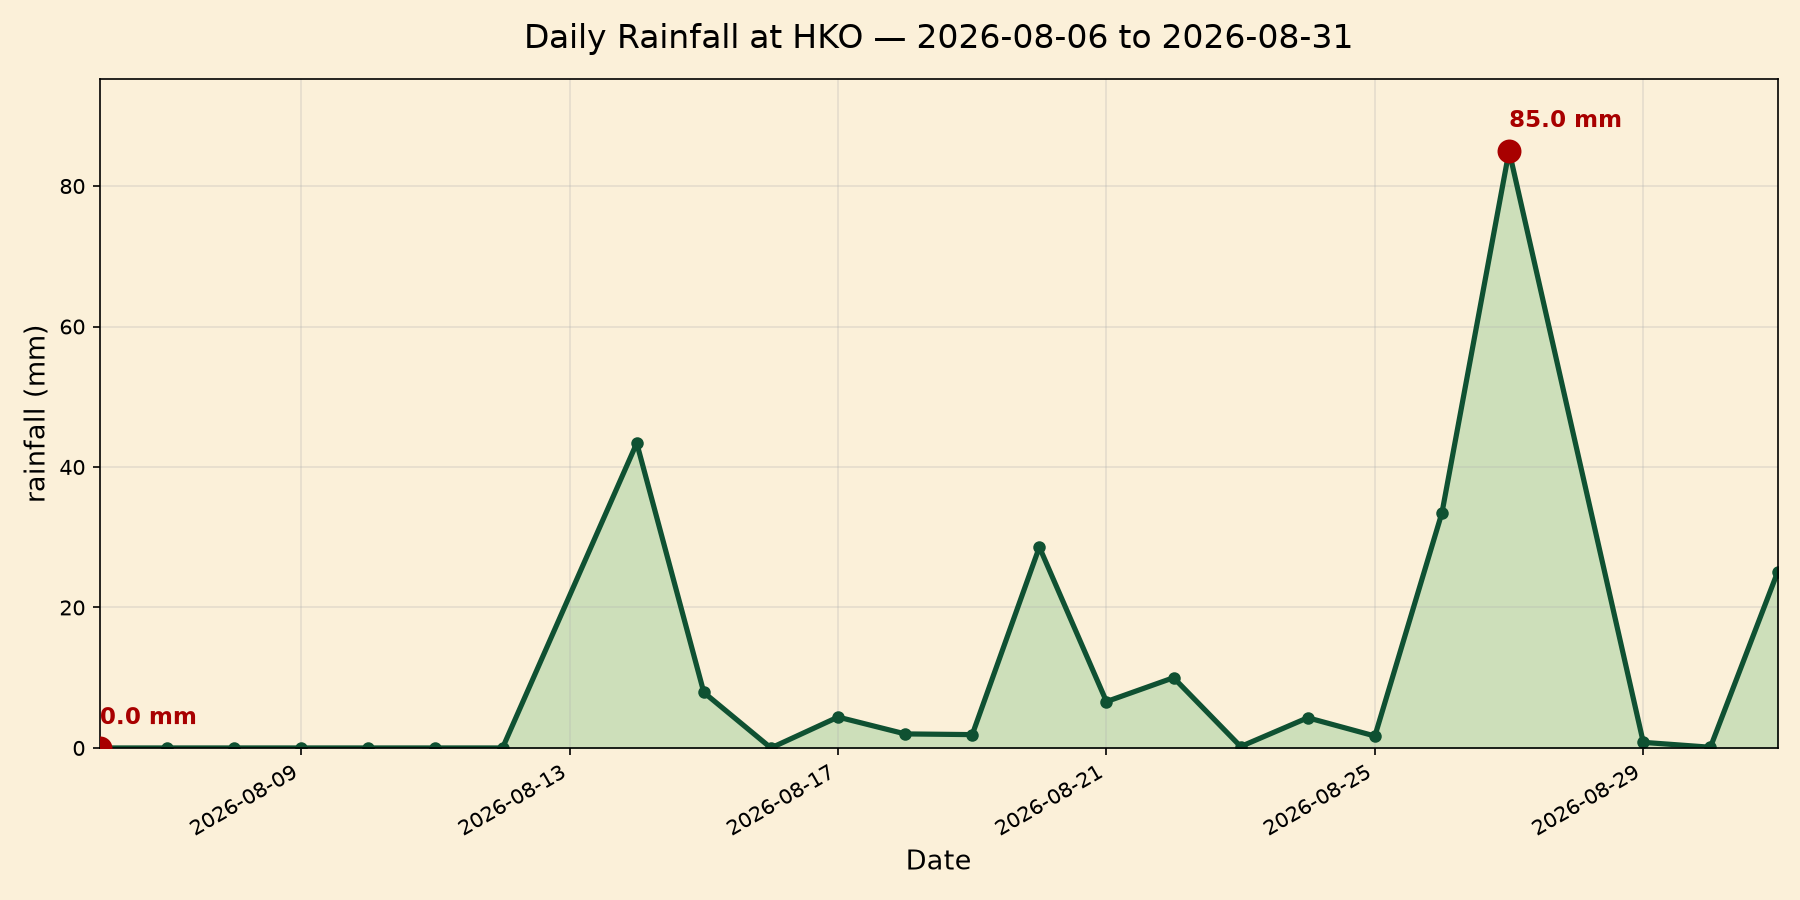
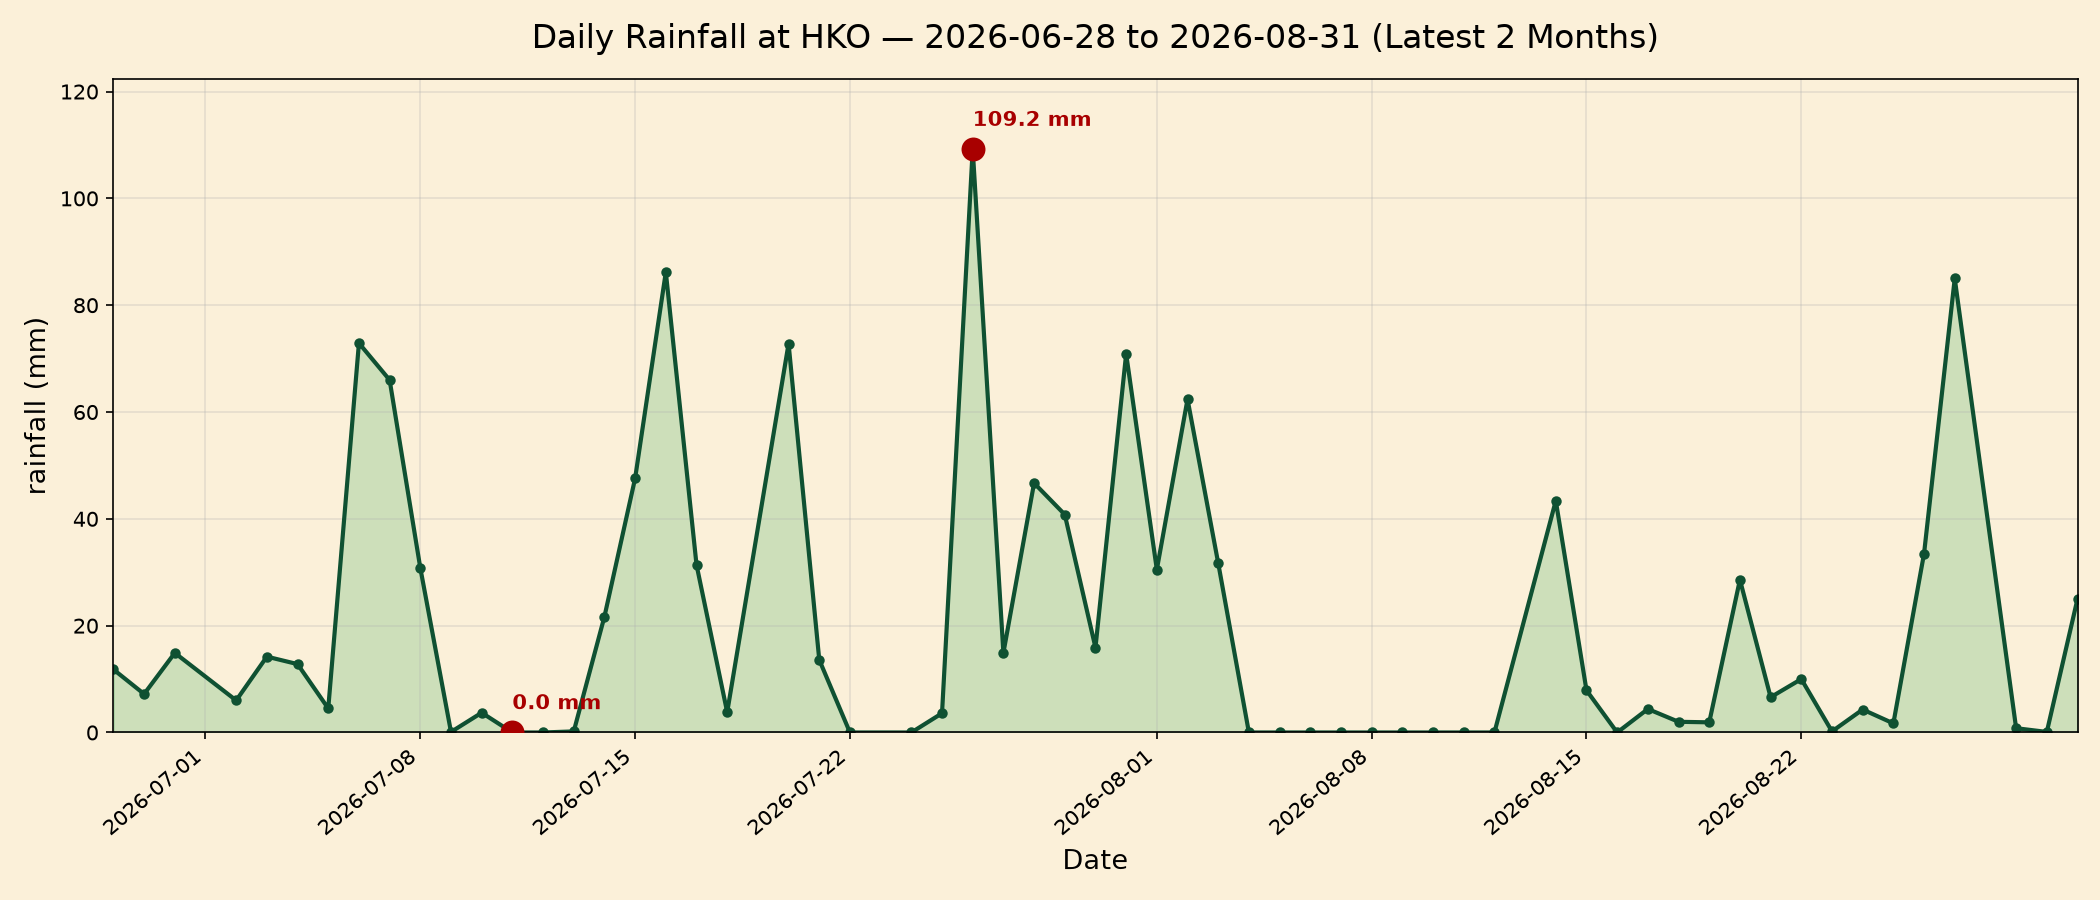
Update to latest 2 months (60 days) rainfall data, green line with dark red max/min markers

diff --git a/plot.py b/plot.py
@@ -16,7 +16,7 @@ def main():
     all_rows = []
     with open(DATA_FILE, "r", encoding="utf-8-sig", errors="ignore") as f:
         reader = csv.reader(f)
-        next(reader)
+        next(reader) # skip header
         for row in reader:
             if len(row) < 4:
                 continue
@@ -30,17 +30,18 @@ def main():
             except ValueError:
                 continue
 
-    recent_24 = all_rows[-24:]
-    date_list = [item[0] for item in recent_24]
-    rainfall_mm = [item[1] for item in recent_24]
+    # 取最近60条（两个月数据）
+    recent_60 = all_rows[-60:]
+    date_list = [item[0] for item in recent_60]
+    rainfall_mm = [item[1] for item in recent_60]
 
     print(f"Total valid data points: {len(date_list)}")
     start_date = date_list[0].strftime("%Y-%m-%d")
     end_date = date_list[-1].strftime("%Y-%m-%d")
-    print(f"Data range: {start_date} to {end_date}")
+    print(f"✅ Data range (latest 2 months): {start_date} to {end_date}")
 
-    fig, ax = plt.subplots(figsize=(12, 6))
-
+    fig, ax = plt.subplots(figsize=(14, 6))
+    # 颜色：绿色线条填充，极值点深红色
     bg_color = "#fbf0d9"
     line_color = "#0f5132"
     fill_color = "#2da44e"
@@ -49,30 +50,41 @@ def main():
     fig.patch.set_facecolor(bg_color)
     ax.set_facecolor(bg_color)
 
-    ax.plot(date_list, rainfall_mm, color=line_color, linewidth=2.5, marker="o", markersize=5)
+    ax.plot(date_list, rainfall_mm, color=line_color, linewidth=2.0, marker="o", markersize=4)
     ax.fill_between(date_list, rainfall_mm, color=fill_color, alpha=0.22)
 
     idx_high = rainfall_mm.index(max(rainfall_mm))
     idx_low = rainfall_mm.index(min(rainfall_mm))
-    max_day_idx = len(date_list) - 1
 
+    # 最高值标注（深红色）
     ax.scatter(date_list[idx_high], rainfall_mm[idx_high], color=highlight_red, s=110, zorder=5)
     dy_high = 0.04 * max(rainfall_mm)
     ax.text(date_list[idx_high], rainfall_mm[idx_high] + dy_high,
             f"{rainfall_mm[idx_high]:.1f} mm",
-            color=highlight_red, fontsize=11, fontweight="bold")
+            color=highlight_red, fontsize=10, fontweight="bold")
 
+    # 最低值标注（深红色）
     ax.scatter(date_list[idx_low], rainfall_mm[idx_low], color=highlight_red, s=110, zorder=5)
     dy_low = 0.04 * max(rainfall_mm)
     ax.text(date_list[idx_low], rainfall_mm[idx_low] + dy_low,
             f"{rainfall_mm[idx_low]:.1f} mm",
-            color=highlight_red, fontsize=11, fontweight="bold")
+            color=highlight_red, fontsize=10, fontweight="bold")
 
-    ax.set_title(f"Daily Rainfall at HKO — {start_date} to {end_date}", fontsize=16, pad=15)
-    ax.set_xlabel("Date", fontsize=13)
+    ax.set_title(f"Daily Rainfall at HKO — {start_date} to {end_date} (Latest 2 Months)", fontsize=16, pad=15)
+    # X轴标题附带起止日期
+    ax.set_xlabel(f"Date | {start_date} to {end_date}", fontsize=13)
     ax.set_ylabel("rainfall (mm)", fontsize=13)
     ax.grid(alpha=0.3)
-    plt.setp(ax.get_xticklabels(), rotation=30, ha="right")
+
+    # X轴刻度，强制包含最后一天，和其他日期一起显示
+    import matplotlib.dates as mdates
+    locator = mdates.AutoDateLocator(minticks=6, maxticks=12)
+    formatter = mdates.ConciseDateFormatter(locator)
+    ax.xaxis.set_major_locator(locator)
+    ax.xaxis.set_major_formatter(formatter)
+    ax.set_xticks([*ax.get_xticks(), mdates.date2num(date_list[-1])])
+
+    plt.setp(ax.get_xticklabels(), rotation=40, ha="right")
     ax.margins(x=0, y=0)
     ax.set_ylim(bottom=ax.get_ylim()[0], top=ax.get_ylim()[1] * 1.12)
 
@@ -80,7 +92,7 @@ def main():
     plt.tight_layout()
     plt.savefig(img_path, dpi=150)
     plt.show()
-    print("Plot saved.")
+    print("✅ 2-month rainfall chart saved.")
 
 if __name__ == "__main__":
     main()
